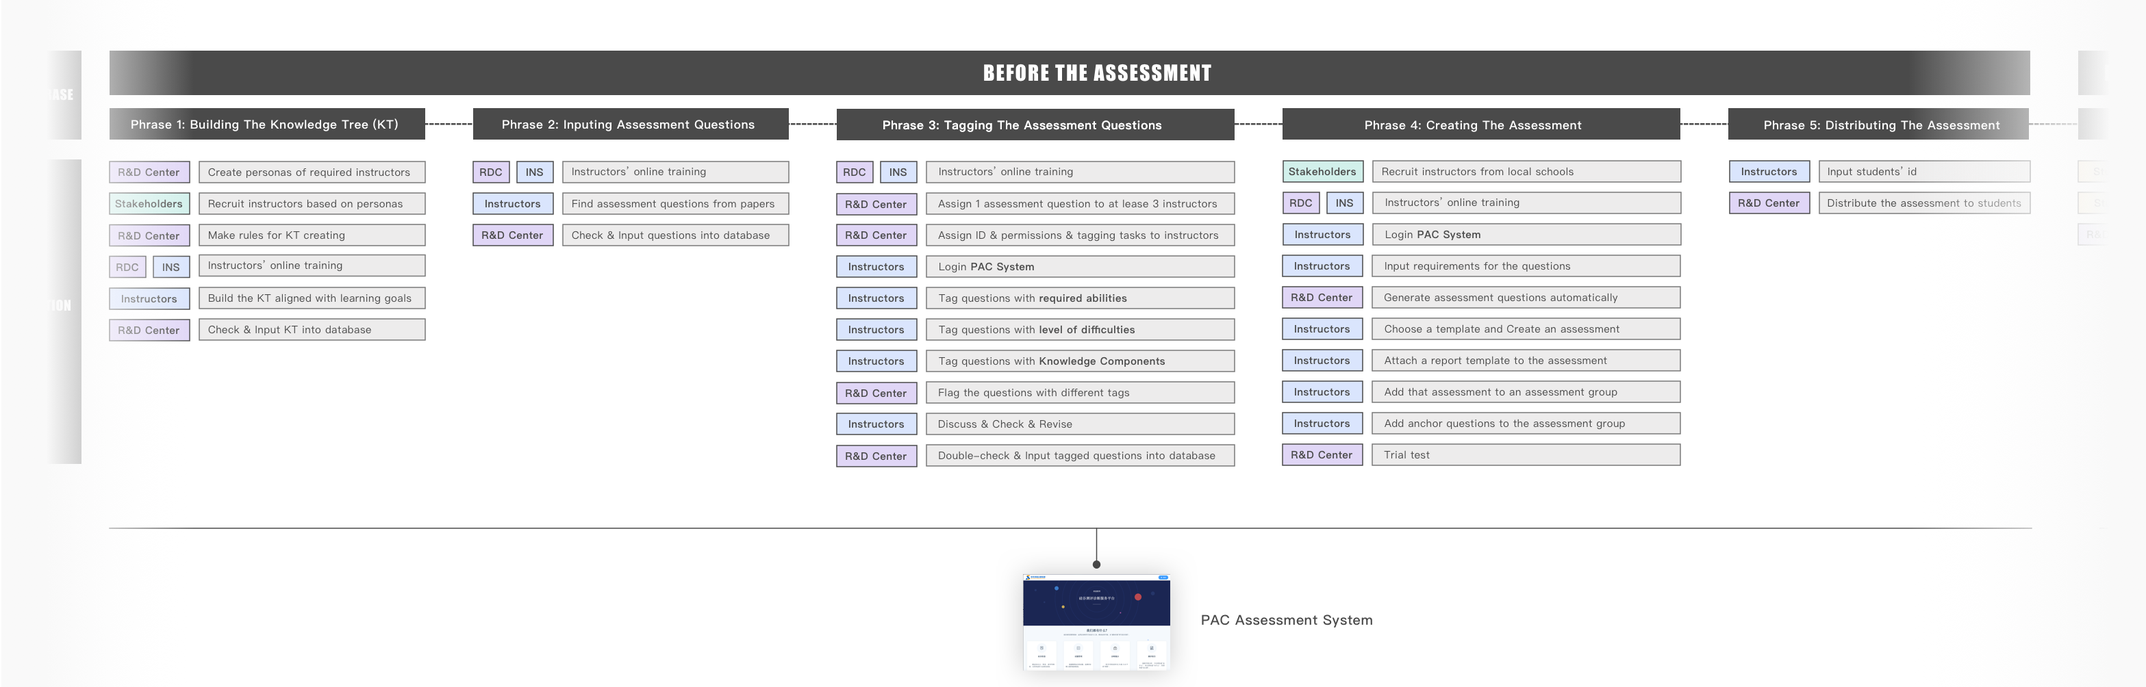
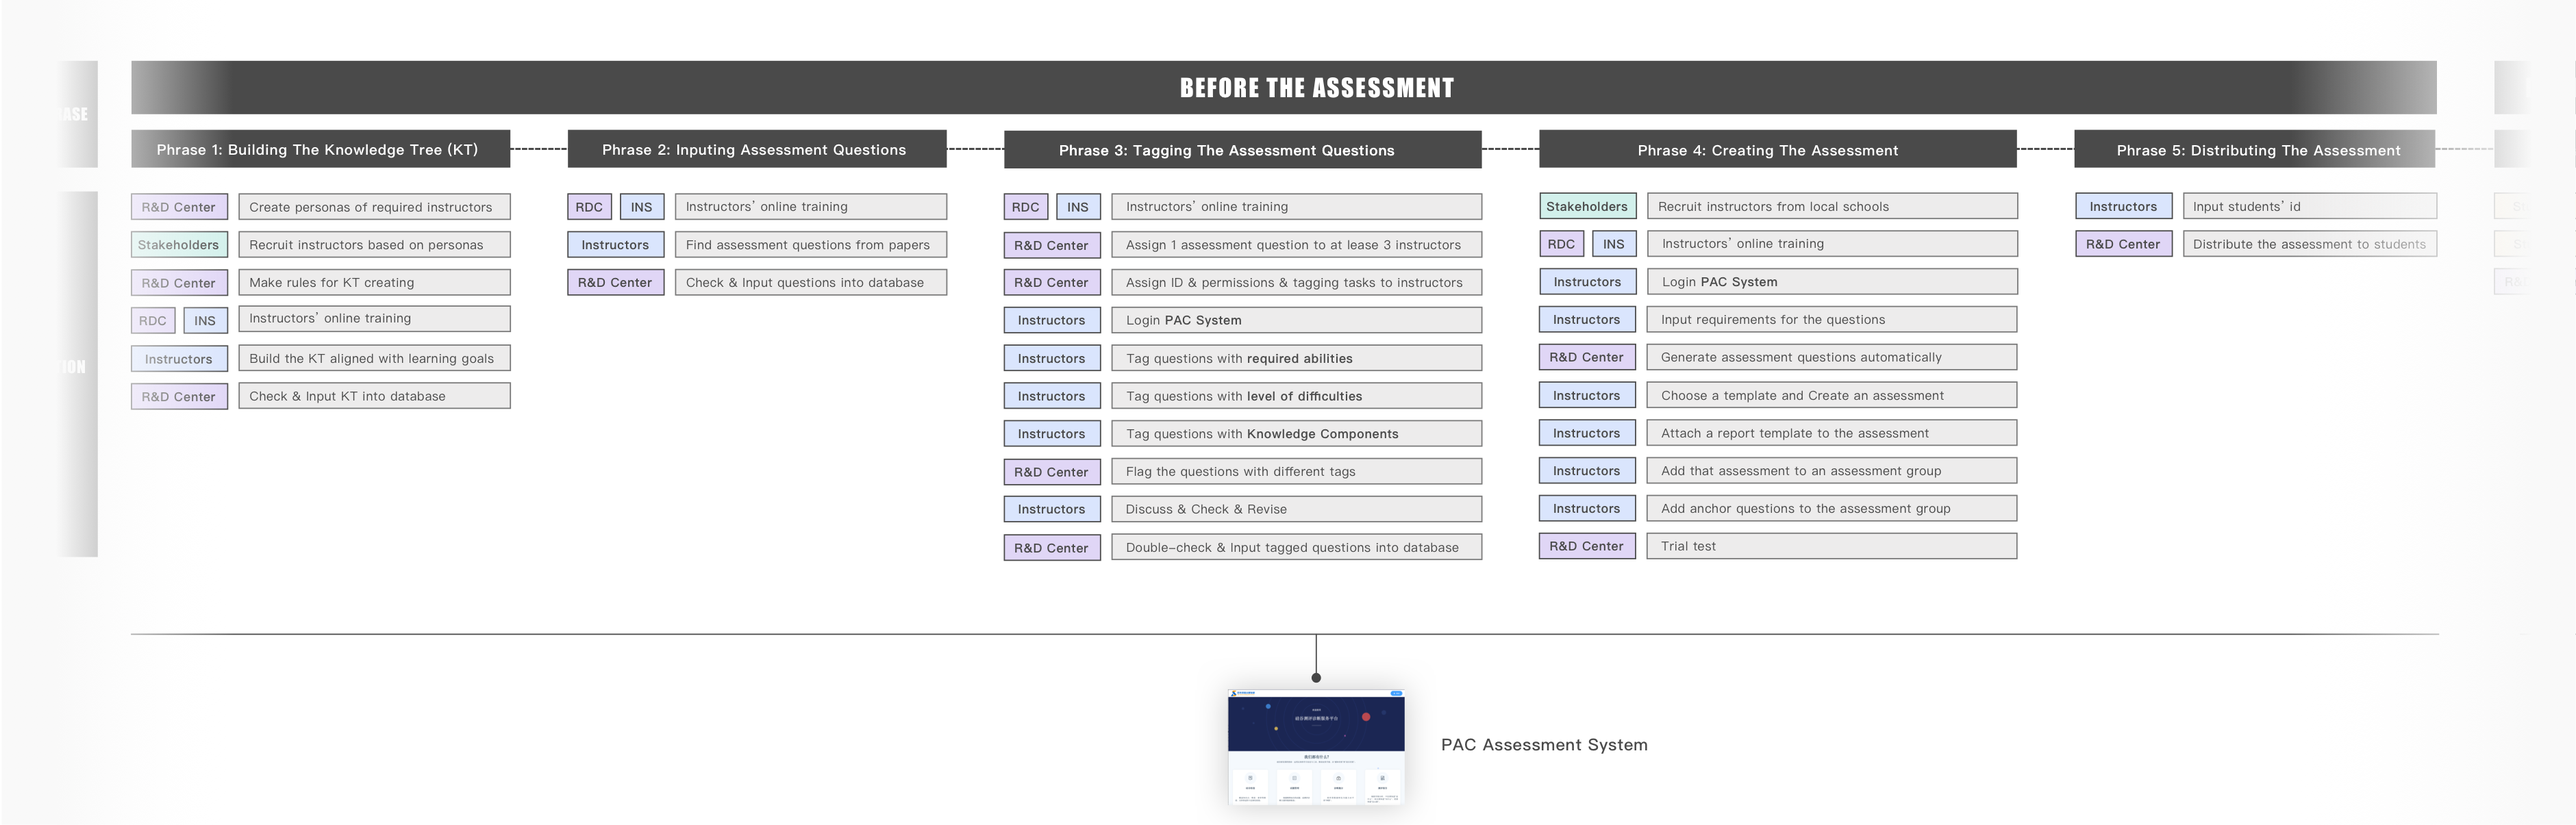
TAL

diff --git a/work/TAL.html b/work/TAL.html
@@ -248,7 +248,7 @@
                 </div>
                 <div class="row">
                      <div class="col-12 col-md-12">
-                        <img width="100%" src="images/TAL/PACBig.webp">
+                        <img width="100%" src="images/TAL/PACbig.png">
                     </div>
                 </div>
             </div>
@@ -326,7 +326,7 @@
                         </p>
                     </div>
                     <div class="col-12 col-md-5">
-                        <img width="100%" src="images/TAL/ZhikangBig.webp">
+                        <img width="100%" src="images/TAL/ZhikangBig.png">
                     </div>
                 </div>
             </div>
